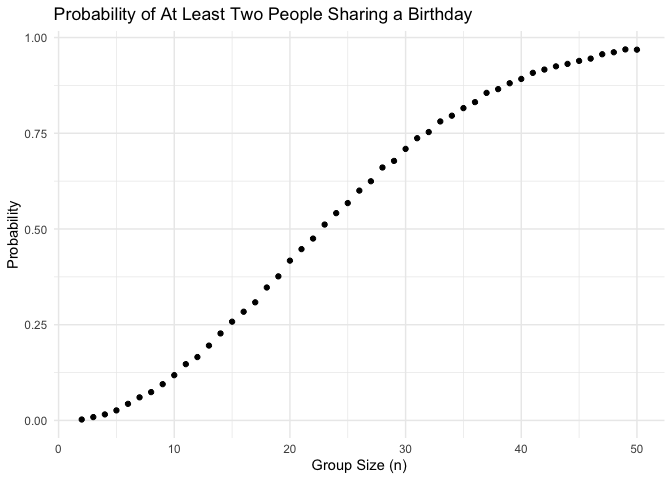
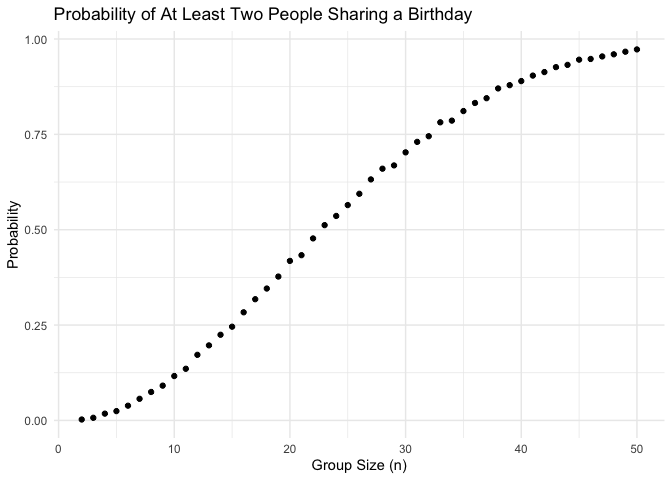
power simulation

diff --git a/p8105_hw5_fp2513.md b/p8105_hw5_fp2513.md
@@ -8,7 +8,7 @@ p8105_hw5_fp2513
 birthday = sample(1:365, 10, replace = TRUE) %>% print()
 ```
 
-    ##  [1] 161 311  18 358 307 223 101  76 181 355
+    ##  [1] 162 301 209 196 192 239 196  78 100 124
 
 ``` r
 if (any(duplicated(birthday))) {
@@ -18,7 +18,7 @@ if (any(duplicated(birthday))) {
 }
 ```
 
-    ## FALSE
+    ## TRUE
 
 ``` r
 check_duplicate_birthdays = function(n) {  
@@ -96,11 +96,38 @@ Where: At small group sizes (e.g., between 2 and 10 people), the
 probability of at least two people sharing a birthday starts off low.
 For very small groups, the probability is almost zero.
 
-As the group size increases, the probability increases rapidly. This is
-the steep part of the curve where the probability jumps due to the
-growing number of possible pairs of people that could share a birthday.
+As group size increases, the probability increases rapidly.
 
-For larger group sizes, the curve begins to level off. As more people
-are added, the probability approaches 1 (or 100%) because, with enough
-people, it becomes almost certain that at least two will share a
-birthday.
+For larger group sizes, the curve begins to level off and probability
+approaches 1 (or 100%) because, with enough people, it becomes almost
+certain that at least two will share a birthday.
+
+## Problem 2
+
+``` r
+sim_power = function(samp_size = 30, mu = 0, sigma = 5, num_simulations = 5000, alpha = 0.05) {  
+  
+    run_simulation = function() {
+
+          sample_data = rnorm(samp_size, mean = mu, sd = sigma)
+          
+          test_result = t.test(sample_data, mu = 0)
+          
+          result = broom::tidy(test_result)
+    return(result)
+    }
+    
+      results = replicate(num_simulations, run_simulation(), simplify = FALSE)
+
+        results_df = bind_rows(results)
+
+          power = mean(results_df$p.value < alpha)
+
+    return(power)
+}
+
+sim_power_result = sim_power()
+cat("Estimated power of the one-sample t-test: ", sim_power_result, n)
+```
+
+    ## Estimated power of the one-sample t-test:  0.051 10
